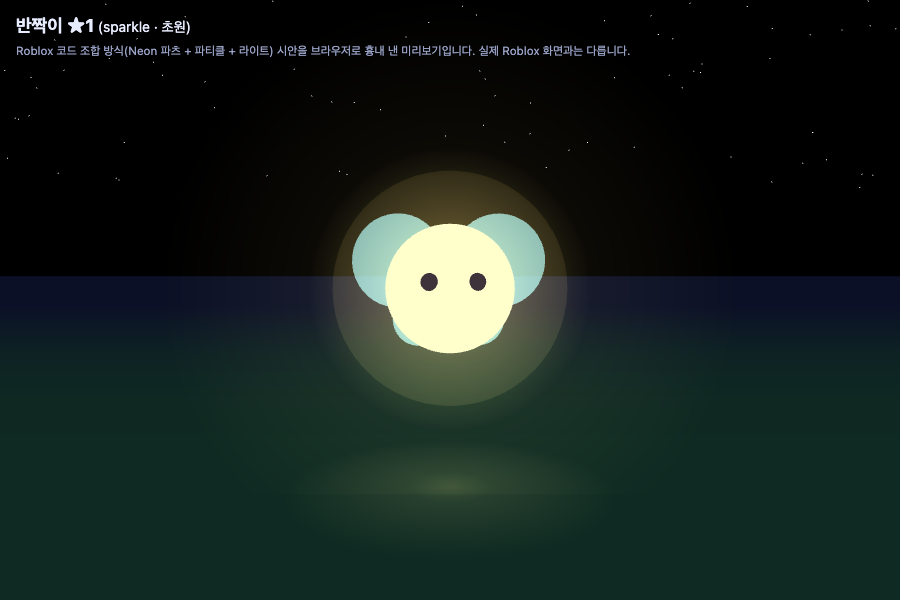
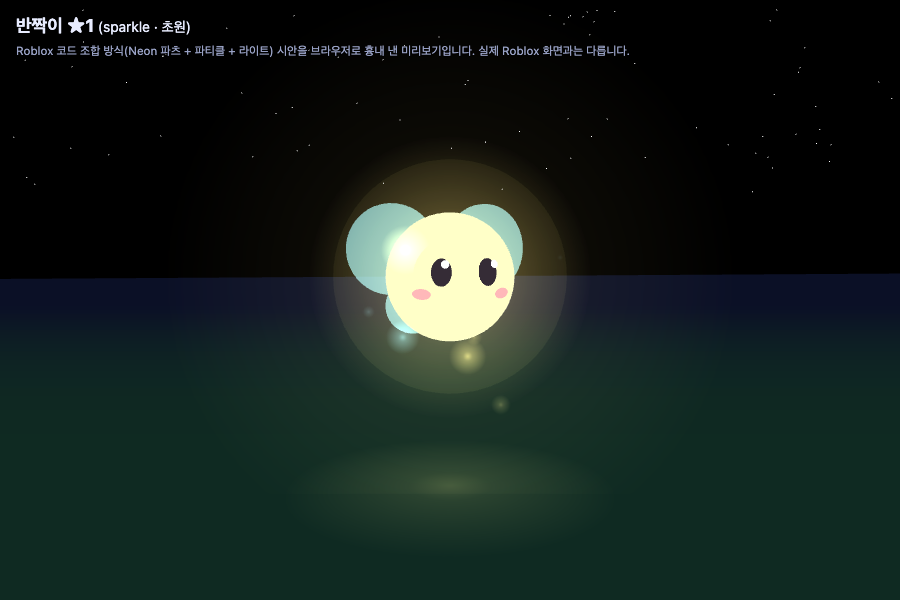
feat: 반짝이 외형을 새 얼굴 방식(큰 눈·하이라이트·홍조)으로 통일

diff --git a/docs/previews/sparkle_preview.html b/docs/previews/sparkle_preview.html
@@ -16,7 +16,8 @@
 <small>Roblox 코드 조합 방식(Neon 파츠 + 파티클 + 라이트) 시안을 브라우저로 흉내 낸 미리보기입니다. 실제 Roblox 화면과는 다릅니다.</small></div>
 <script src="https://cdnjs.cloudflare.com/ajax/libs/three.js/r128/three.min.js"></script>
 <script>
-// Roblox 版 Sparkle.luau と同じ構成・寸法・色・動きをブラウザで近似する
+// Roblox 版 Sparkle.luau と同じ構成・寸法・色・動きをブラウザで近似する(2026-11-12 顔を meadow 4 種と同じ方式に更新)
+// 座標は Roblox と同じ(前方 = -Z)。カメラを -Z 側に置いて顔を見る
 const W = innerWidth, H = innerHeight;
 const renderer = new THREE.WebGLRenderer({ antialias: true, preserveDrawingBuffer: true });
 renderer.setSize(W, H); renderer.setPixelRatio(devicePixelRatio);
@@ -24,80 +25,109 @@ document.body.appendChild(renderer.domElement);
 const scene = new THREE.Scene();
 scene.fog = new THREE.Fog(0x0b1026, 6, 22);
 const camera = new THREE.PerspectiveCamera(45, W / H, 0.1, 100);
-camera.position.set(0, 2.0, 5.6); camera.lookAt(0, 1.5, 0);
+camera.position.set(0.6, 2.0, -5.6); camera.lookAt(0, 1.5, 0);
+// 表示後に窓の大きさが変わっても(ヘッドレス撮影など)追従する
+addEventListener('resize', () => { renderer.setSize(innerWidth, innerHeight); camera.aspect = innerWidth / innerHeight; camera.updateProjectionMatrix(); });
 
-const C = { core: 0xfff4c2, halo: 0xffe27a, wing: 0x8fe9ff, eye: 0x282030 };
+const C = { core: 0xfff4c2, halo: 0xffe27a, wing: 0x8fe9ff, eye: 0x282030, shine: 0xffffff, cheek: 0xffa0b4 };
 
-// 放射グラデーションの光テクスチャ
-function glowTex(stops) {
+// CFrame 相当の行列ヘルパー(Euler 'XYZ' = Roblox の CFrame.Angles と同じ順)
+const V = (x, y, z) => new THREE.Vector3(x, y, z);
+const T = (x, y, z) => new THREE.Matrix4().makeTranslation(x, y, z);
+const A = (x, y, z) => new THREE.Matrix4().makeRotationFromEuler(new THREE.Euler(x, y, z, 'XYZ'));
+const mul = (...ms) => { const r = new THREE.Matrix4(); ms.forEach(m => r.multiply(m)); return r; };
+const rad = d => d * Math.PI / 180;
+function onSurface(r, x, y, lift) {
+  const k = 1 - (x / r.x) ** 2 - (y / r.y) ** 2, z = -r.z * Math.sqrt(Math.max(k, 0));
+  const p = V(x, y, z), n = V(x / r.x ** 2, y / r.y ** 2, z / r.z ** 2).normalize();
+  const e = p.clone().addScaledVector(n, lift);
+  const m = new THREE.Matrix4().lookAt(e, p.clone().addScaledVector(n, lift + 1), V(0, 1, 0)); m.setPosition(e); return m;
+}
+const SPH = new THREE.SphereGeometry(0.5, 40, 30);
+const CYL = new THREE.CylinderGeometry(0.5, 0.5, 1, 40); CYL.rotateZ(Math.PI / 2); // Roblox の Cylinder と同じく軸を X に
+function part(color, opacity, geo) {
+  const m = new THREE.Mesh(geo || SPH, new THREE.MeshBasicMaterial({ color, transparent: opacity < 1, opacity, depthWrite: opacity >= 1 }));
+  m.matrixAutoUpdate = false; scene.add(m); return m;
+}
+const place = (m, cf, size) => { m.matrix.copy(cf).multiply(new THREE.Matrix4().makeScale(size.x, size.y, size.z)); };
+
+function glowTex() {
   const c = document.createElement('canvas'); c.width = c.height = 128;
   const g = c.getContext('2d'), gr = g.createRadialGradient(64, 64, 0, 64, 64, 64);
-  stops.forEach(([o, col]) => gr.addColorStop(o, col));
-  g.fillStyle = gr; g.fillRect(0, 0, 128, 128);
-  return new THREE.CanvasTexture(c);
+  gr.addColorStop(0, 'rgba(255,255,255,1)'); gr.addColorStop(0.25, 'rgba(255,255,255,0.55)'); gr.addColorStop(1, 'rgba(255,255,255,0)');
+  g.fillStyle = gr; g.fillRect(0, 0, 128, 128); return new THREE.CanvasTexture(c);
 }
-const softTex = glowTex([[0, 'rgba(255,255,255,1)'], [0.25, 'rgba(255,255,255,0.55)'], [1, 'rgba(255,255,255,0)']]);
-const add = (col, op) => new THREE.SpriteMaterial({ map: softTex, color: col, transparent: true, opacity: op, blending: THREE.AdditiveBlending, depthWrite: false });
+const soft = glowTex();
+const addMat = (col, op) => new THREE.SpriteMaterial({ map: soft, color: col, transparent: true, opacity: op, blending: THREE.AdditiveBlending, depthWrite: false });
 
-// 地面と星
+// 地面・星・地面の光
 const ground = new THREE.Mesh(new THREE.PlaneGeometry(60, 60), new THREE.MeshBasicMaterial({ color: 0x0f2a22 }));
 ground.rotation.x = -Math.PI / 2; scene.add(ground);
-const groundGlow = new THREE.Mesh(new THREE.CircleGeometry(1.3, 48), new THREE.MeshBasicMaterial({ map: softTex, color: C.halo, transparent: true, opacity: 0.2, blending: THREE.AdditiveBlending, depthWrite: false }));
-groundGlow.rotation.x = -Math.PI / 2; groundGlow.position.y = 0.01; scene.add(groundGlow);
-const starGeo = new THREE.BufferGeometry(), sp = [];
-for (let i = 0; i < 400; i++) sp.push((Math.random() - 0.5) * 60, 4 + Math.random() * 20, -10 - Math.random() * 20);
-starGeo.setAttribute('position', new THREE.Float32BufferAttribute(sp, 3));
-scene.add(new THREE.Points(starGeo, new THREE.PointsMaterial({ color: 0xffffff, size: 0.06, fog: false })));
+const gg = new THREE.Mesh(new THREE.CircleGeometry(1.3, 48), new THREE.MeshBasicMaterial({ map: soft, color: C.halo, transparent: true, opacity: 0.2, blending: THREE.AdditiveBlending, depthWrite: false }));
+gg.rotation.x = -Math.PI / 2; gg.position.y = 0.01; scene.add(gg);
+const sg = new THREE.BufferGeometry(), sp = [];
+for (let i = 0; i < 400; i++) sp.push((Math.random() - 0.5) * 60, 4 + Math.random() * 20, 10 + Math.random() * 20);
+sg.setAttribute('position', new THREE.Float32BufferAttribute(sp, 3));
+scene.add(new THREE.Points(sg, new THREE.PointsMaterial({ color: 0xffffff, size: 0.06, fog: false })));
 
-// 精霊本体
-const body = new THREE.Group(); scene.add(body);
-const core = new THREE.Mesh(new THREE.SphereGeometry(0.5, 40, 30), new THREE.MeshBasicMaterial({ color: C.core }));
-body.add(core);
-const halo = new THREE.Mesh(new THREE.SphereGeometry(0.9, 40, 30), new THREE.MeshBasicMaterial({ color: C.halo, transparent: true, opacity: 0.08, blending: THREE.AdditiveBlending, depthWrite: false }));
-body.add(halo);
-const glow1 = new THREE.Sprite(add(C.halo, 0.45)); glow1.scale.set(2.2, 2.2, 1); body.add(glow1);
-const glow2 = new THREE.Sprite(add(C.halo, 0.12)); glow2.scale.set(4.5, 4.5, 1); body.add(glow2);
-const eyeMat = new THREE.MeshBasicMaterial({ color: C.eye });
-const eyes = [-1, 1].map(s => { const e = new THREE.Mesh(new THREE.SphereGeometry(0.065, 16, 12), eyeMat); e.position.set(s * 0.17, 0.08, 0.45); body.add(e); return e; });
-
-// 羽(円盤)。上の大きい羽・下の小さい羽
-const wingMat = new THREE.MeshBasicMaterial({ color: C.wing, transparent: true, opacity: 0.6, side: THREE.DoubleSide, depthWrite: false });
+// 精霊(Sparkle.luau と同じ値)
+const CR = V(0.5, 0.5, 0.5);
+const core = part(C.core, 1);
+const halo = new THREE.Mesh(SPH, new THREE.MeshBasicMaterial({ color: C.halo, transparent: true, opacity: 0.08, blending: THREE.AdditiveBlending, depthWrite: false }));
+halo.matrixAutoUpdate = false; scene.add(halo);
+const items = [], eyes = [], shines = [];
+for (const s of [-1, 1]) {
+  const e = { m: part(C.eye, 1), cf: onSurface(CR, s * 0.17, 0.06, 0), size: V(0.15, 0.2, 0.08) }; items.push(e); eyes.push(e);
+  const h = { m: part(C.shine, 1), cf: onSurface(CR, s * 0.17 - 0.03, 0.11, 0.04), size: V(0.06, 0.06, 0.03) }; items.push(h); shines.push(h.m);
+  items.push({ m: part(C.cheek, 0.75), cf: onSurface(CR, s * 0.3, -0.1, 0), size: V(0.15, 0.08, 0.04) });
+}
+// 羽: 薄い円柱 = 円盤。上の大きい羽と下の小さい羽を左右に1枚ずつ
 const wings = [];
-[{ d: 0.75, tilt: 15, y: 0.1 }, { d: 0.45, tilt: -30, y: -0.12 }].forEach(def => [-1, 1].forEach(s => {
-  const hinge = new THREE.Group(); hinge.position.set(0, def.y, -0.3); body.add(hinge);
-  const tilt = new THREE.Group(); tilt.rotation.z = s * def.tilt * Math.PI / 180; hinge.add(tilt);
-  const m = new THREE.Mesh(new THREE.CircleGeometry(def.d / 2, 40), wingMat); m.position.x = s * (def.d / 2 + 0.05); tilt.add(m);
-  wings.push({ hinge, s });
-}));
+[{ d: 0.75, tilt: rad(15), y: 0.1 }, { d: 0.45, tilt: rad(-30), y: -0.12 }].forEach(def => [-1, 1].forEach(s => wings.push({ m: part(C.wing, 0.6, CYL), def, s })));
+const glow1 = new THREE.Sprite(addMat(C.halo, 0.45)); glow1.scale.set(2.2, 2.2, 1); scene.add(glow1);
+const glow2 = new THREE.Sprite(addMat(C.halo, 0.12)); glow2.scale.set(4.5, 4.5, 1); scene.add(glow2);
 
-// きらきら粒子(下にふわっと落ちる)
+// きらきら粒子(本体の箱の中から出て、下にふわっと落ちる)
 const parts = [];
-const pMat = [add(C.halo, 1), add(C.wing, 1)];
-function emit(origin) {
-  const p = new THREE.Sprite(pMat[Math.random() < 0.5 ? 0 : 1].clone());
-  p.position.copy(origin);
-  const v = new THREE.Vector3(Math.random() - 0.5, Math.random() - 0.5, Math.random() - 0.5).normalize().multiplyScalar(0.4 + Math.random() * 0.6);
+function emit(center) {
+  const p = new THREE.Sprite(addMat(Math.random() < 0.5 ? C.halo : C.wing, 1));
+  p.position.copy(center).add(V(Math.random() - 0.5, Math.random() - 0.5, Math.random() - 0.5));
+  const v = V(Math.random() - 0.5, Math.random() - 0.5, Math.random() - 0.5).normalize().multiplyScalar(0.4 + Math.random() * 0.6);
   parts.push({ p, v, life: 0, max: 0.6 + Math.random() * 0.6 }); scene.add(p);
 }
-
-const clock = new THREE.Clock(); let acc = 0, last = 0;
-function tick() {
-  const t = clock.getElapsedTime(), dt = t - last; last = t;
-  body.position.set(0, 1.5 + Math.sin(t * 2) * 0.25, 0);
-  body.rotation.y = Math.sin(t * 0.5) * 0.6;
-  halo.material.opacity = 0.07 + 0.03 * Math.sin(t * 3);
-  glow1.material.opacity = 0.4 + 0.1 * Math.sin(t * 3);
-  groundGlow.material.opacity = 0.15 + 0.05 * Math.sin(t * 3);
-  const blink = (t % 3.2) < 0.12; eyes.forEach(e => e.visible = !blink);
-  const flap = 25 * Math.PI / 180 * Math.sin(t * 14);
-  wings.forEach(w => w.hinge.rotation.y = -w.s * flap);
-  acc += dt * 14; while (acc >= 1) { acc -= 1; emit(body.position); }
+function stepParts(dt) {
   for (let i = parts.length - 1; i >= 0; i--) {
     const q = parts[i]; q.life += dt; q.v.y -= 0.6 * dt; q.p.position.addScaledVector(q.v, dt);
     const k = q.life / q.max, s = 0.25 * (1 - k) * 1.6;
     q.p.scale.set(s, s, 1); q.p.material.opacity = 0.8 * (1 - k);
     if (k >= 1) { scene.remove(q.p); parts.splice(i, 1); }
   }
+}
+
+function frame(t, dt) {
+  const root = mul(T(0, 1.5, 0), T(0, Math.sin(t * 2) * 0.25, 0), A(0, Math.sin(t * 0.5) * 0.6, 0));
+  place(core, root, V(1, 1, 1));
+  place(halo, root, V(1.8, 1.8, 1.8));
+  halo.material.opacity = 0.08 - 0.03 * Math.sin(t * 3); // Roblox: Transparency 0.82 + 0.06 sin
+  items.forEach(it => place(it.m, mul(root, it.cf), it.size));
+  const blink = ((t % 3.2 + 3.2) % 3.2) < 0.12;
+  eyes.forEach(e => e.m.matrix.multiply(new THREE.Matrix4().makeScale(1, blink ? 0.15 : 1, 1)));
+  shines.forEach(m => m.visible = !blink);
+  const flap = rad(25) * Math.sin(t * 14);
+  wings.forEach(w => place(w.m, mul(root, T(0, w.def.y, 0.3), A(0, w.s * flap, 0), A(0, 0, w.s * w.def.tilt), T(w.s * (w.def.d / 2 + 0.05), 0, 0), A(0, rad(90), 0)), V(0.04, w.def.d, w.def.d)));
+  const c = V(0, 0, 0).applyMatrix4(root);
+  glow1.position.copy(c); glow2.position.copy(c);
+  glow1.material.opacity = 0.4 + 0.1 * Math.sin(t * 3); gg.material.opacity = 0.15 + 0.05 * Math.sin(t * 3);
+  acc += dt * 14; while (acc >= 1) { acc -= 1; emit(c); }
+  stepParts(dt);
+}
+// ?t=秒 で開始時刻をずらせる。&freeze で時刻を止める(撮影用)
+const Q = new URLSearchParams(location.search), T0 = +(Q.get('t') || 0), FREEZE = Q.has('freeze');
+const clock = new THREE.Clock(); let last = T0, acc = 0, warmed = false;
+function tick() {
+  const t = FREEZE ? T0 : T0 + clock.getElapsedTime(), dt = FREEZE ? 0 : t - last; last = t;
+  if (!warmed) { warmed = true; for (let k = 0; k < 60; k++) frame(T0 - 2 + k / 30, 1 / 30); } // 撮影時に粒子が見えるよう先に流す
+  frame(t, dt);
   renderer.render(scene, camera); requestAnimationFrame(tick);
 }
 tick();

diff --git a/docs/game_mvp1_impl_plan.md b/docs/game_mvp1_impl_plan.md
@@ -431,4 +431,4 @@ Python 전용으로 건너뛰는 것은 **30건**이다.
 - 2026-11-12 S6~S9 결정·리뷰 반영(roblox-feature, 기준본 `baselines/20261112_pre_s6_s9_fix/`, Studio 미검증). ① 배치 이동: Remote `MoveSlot(uid, toFacilityId, toSlot)`(RF, Net·default.project.json·NetSpec 15개) — `FacilityRules.planMove`가 검증(형식→보유→동행 아님→배치 중→시설 존재·해금→1..slots→교환 상대 동행 아님)과 새 배열 계산을 한 곳에서 하고, `FacilityService.move`는 통과 시에만 정산→배열 교체→afterChange. 찬 칸은 교환(같은/다른 시설), 빈 칸은 끝에 추가(원래 시설은 당김). 4.3 표에 MoveSlot 행(레이트 미정) 추가 필요. ② econ_sim 특성 params `start_hour`/`end_hour` 삭제(validate 스키마·model 경고·test_sim_rules), 들어오면 SCHEMA_UNKNOWN_KEY(test_validate). ③ 조우 이벤트 단계 전송: `engage` 응답 = 시각 0 이벤트만(result·durationSeconds·endsAt 제외 — 시도 수가 드러나므로), `CaptureService:dueEvents(userId, now)`가 시각이 된 이벤트를 한 번씩 반환(1초 루프 → EncounterEvent RE), `complete`/`finish` 결과의 `events`에 미전송분 포함. ④ 미래 시각 잘라내기: 상한 = data 계산(최장 조우 = max(weaken.max_seconds, assist_seconds) + attempt_seconds×K_max = 52초, next_spawn_at 112초, vigor_min ≤ (now+52)//60), 초과 시 now로 고치고 로그. **사용 시점**에 검사(WildSpawnService.ensure·engage의 동행 입력·complete) — 로드 시 손상과 플레이 중 시계 역행 둘 다 막고, pending.endsAt은 저장되지 않아 사용 시점만 가능. ⑤ `Services/SessionCleanup.run(deps, userId, save, now)`(capture:finish→gather:stop→wild:clear→activity:clear, 단계별 pcall). Main 결선은 Studio 단계: PlayerRemoving은 releaseAsync 전, BindToClose는 closeAll 전(Main에 TODO). ⑥ 테스트 보강(분 경계 조우의 vigor_min, 반영 시 정산이 도감 등록 전·atSec). ⑦ Nit: 출현표 빈 확인을 부수효과 전으로. 검증: Lune vectors 100/30/0, unit 119/0, rojo build 성공, econ_sim unittest 204 OK·validate ERROR 0·gen-tables 최신. 돌연변이 16종(Luau)+1종(Python) 모두 검출.
 - 메인 확인(2026-11-12, S6~S9 리뷰 반영 후): Lune vectors 100/30/0·unit 119/0 재실행 확인. 결정 ①의 귀결로 engage RF 응답에서 durationSeconds·endsAt도 제외(시도 횟수를 드러내므로), MoveSlot 레이트는 AssignSlot과 같은 4/s, MoveSlot 인자는 (uid, toFacilityId, toSlot)(출발 위치는 서버가 uid로 탐색). 이 수정분은 S10 통합 리뷰 범위에 포함.
 - 2026-11-12 S5 사전 설계(메인, 코드 변경 없음, Studio 미검증): `docs/world_hud_design_20261112.md`·목업 `docs/previews/meadow_layout_hud_mock.html`. 결정: 서버 8명=부지 8개, 야생 표시 하이브리드(장식 정령 무리 모두 표시·포획 대상은 플레이어별 1마리·Q2 유지·동행 따라다님), ProximityPrompt는 화면 버튼만 하고 요청은 기존 Remote 하나로, 시설 화면은 HUD Home과 받침대 Prompt 양쪽, 시작 위치는 자기 부지. 외형 방향: 귀엽게, 10~20대 타깃(사용자). S5·S7 착수 시 이 문서를 입력으로 쓴다.
-- 2026-11-12 meadow 정령 4종 외형 선구현(roblox-feature, Studio 미검증): `shared/SpiritVisuals/{Dewdrop,FlowerLamp,ShardLight,SunsetBird}.luau`(Sparkle과 같은 시그니처, DEFAULT_PALETTE 분리, 파트 10~14), `game/previews/*Preview.server.luau`, `docs/previews/*_preview.{html,png}`(PNG는 설치된 Chrome headless로 촬영, three.js CDN 사용). 검증: Lune 매핑 오류 0·vectors 100/30/0·unit 119/0, rojo build 성공, luau.compile 구문 OK, @lune/roblox 스모크(생성→5프레임→palette 교체→destroy) OK. S7 이월: 레지스트리에서 Heartbeat 하나로 모든 정령 갱신 + BulkMoveTo·거리 컬링, 공통 함수(makePart 등 4파일 중복) 공용 모듈화, palette는 기본값 병합 또는 키 검증. 사용자 결정(11/12): Sparkle도 새 얼굴 방식(큰 눈·하이라이트·홍조·위상 어긋남)으로 맞춘다(후속 작업), 이슬방울 눈은 작은 크기 유지.
+- 2026-11-12 meadow 정령 4종 외형 선구현(roblox-feature, Studio 미검증): `shared/SpiritVisuals/{Dewdrop,FlowerLamp,ShardLight,SunsetBird}.luau`(Sparkle과 같은 시그니처, DEFAULT_PALETTE 분리, 파트 10~14), `game/previews/*Preview.server.luau`, `docs/previews/*_preview.{html,png}`(PNG는 설치된 Chrome headless로 촬영, three.js CDN 사용). 검증: Lune 매핑 오류 0·vectors 100/30/0·unit 119/0, rojo build 성공, luau.compile 구문 OK, @lune/roblox 스모크(생성→5프레임→palette 교체→destroy) OK. S7 이월: 레지스트리에서 Heartbeat 하나로 모든 정령 갱신 + BulkMoveTo·거리 컬링, 공통 함수(makePart 등 4파일 중복) 공용 모듈화, palette는 기본값 병합 또는 키 검증. 사용자 결정(11/12): Sparkle도 새 얼굴 방식(큰 눈·하이라이트·홍조·위상 어긋남)으로 맞춘다 → 같은 날 완료(파트 8→12, palette 키 shine·cheek 추가·옛 palette는 기본색으로 채움, preview 정면 수정, Lune·rojo·compile·스모크 통과, Studio 미검증. non-strict 유지 → S7 공용 모듈화 때 strict 전환), 이슬방울 눈은 작은 크기 유지.
